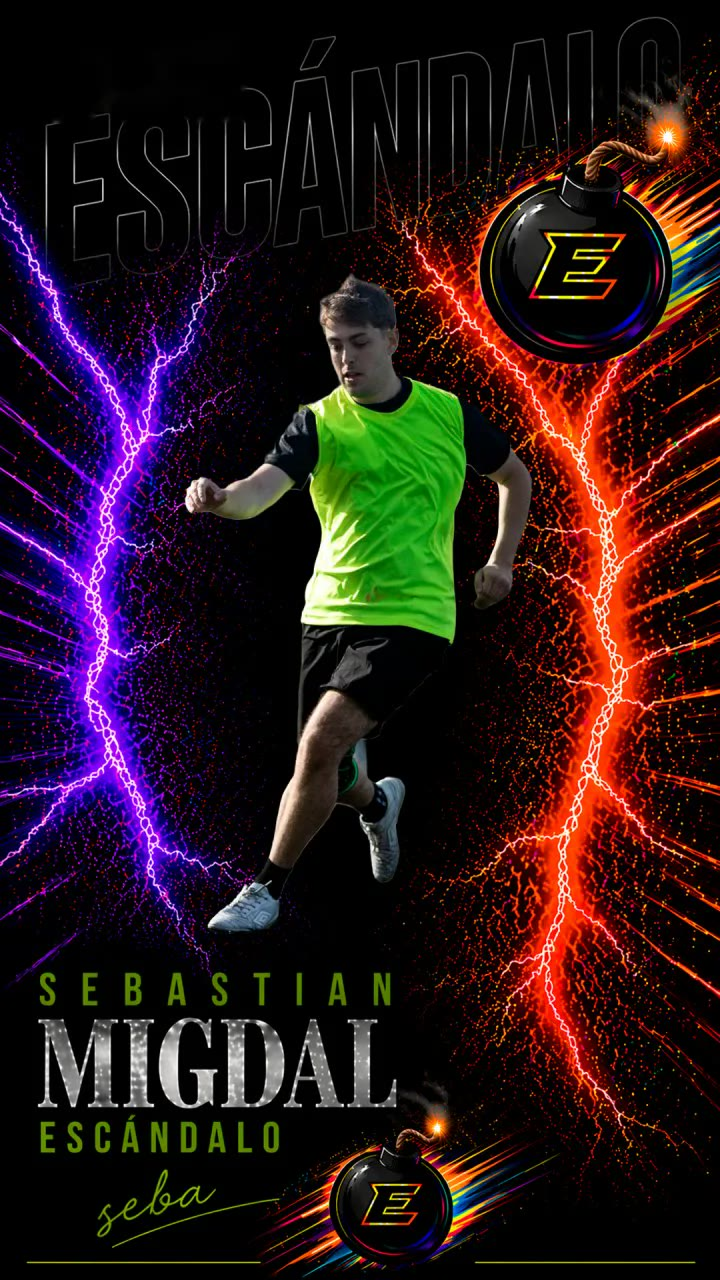
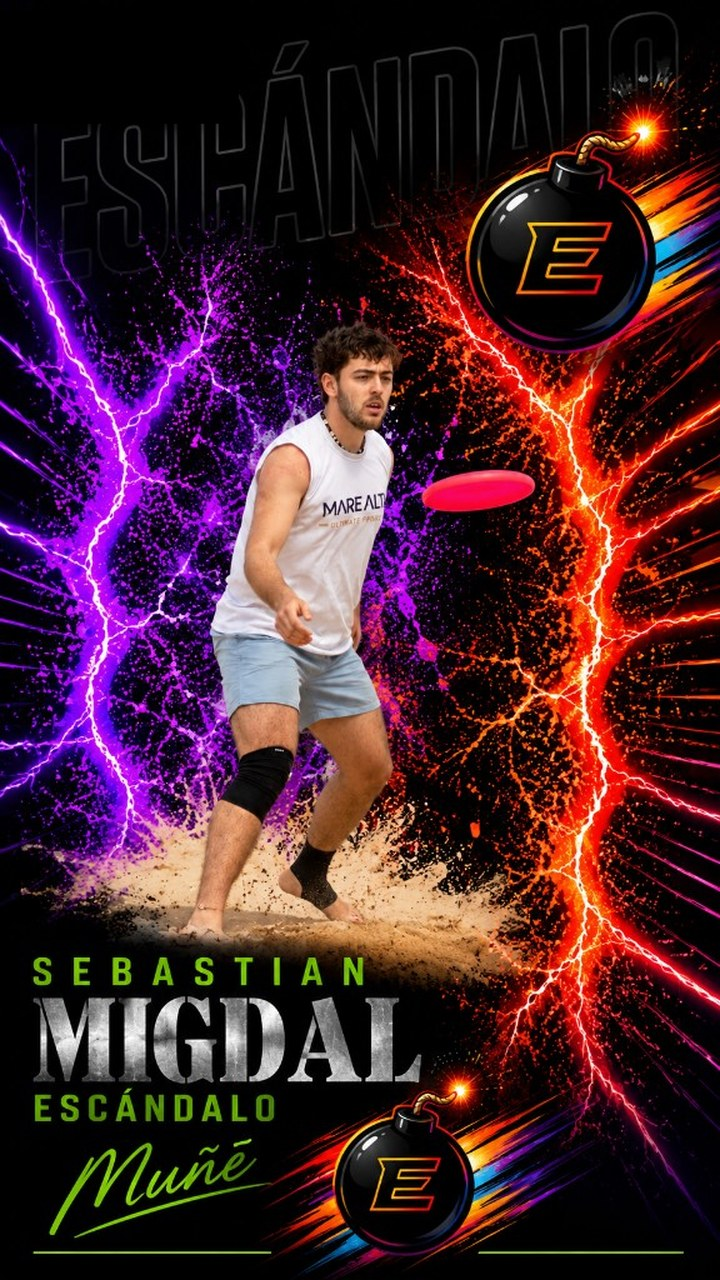
Actualizar la carta de Sebastian y filtrar la asistencia por mes.
La foto nueva no lleva el texto de bienvenida. El mapa de practicas abre en Todas y deja elegir un mes.

diff --git a/js/asistencia.js b/js/asistencia.js
@@ -76,26 +76,37 @@ const Asistencia = (() => {
       <p class="asi-nota">El porcentaje cuenta solo las prácticas que había desde que cada uno se sumó al equipo.${admin ? " Tocá un nombre para ver la evolución." : propio ? " Tocá tu nombre para ver tu evolución." : ""}</p>`;
   }
 
-  function mapa(datos, c, propio, modo, admin) {
+  function mesesDe(practicas) {
     const meses = [];
-    for (const p of datos.practicas) {
+    for (const p of practicas) {
       const m = +p.fecha.slice(5, 7) - 1, y = p.fecha.slice(0, 4), k = `${y}-${m}`;
-      if (!meses.length || meses[meses.length - 1].k !== k) meses.push({ k, nombre: `${MESES[m]} ${y.slice(2)}`, n: 0 });
-      meses[meses.length - 1].n++;
+      if (!meses.length || meses[meses.length - 1].k !== k) meses.push({ k, nombre: `${MESES[m]} ${y.slice(2)}`, practicas: [] });
+      meses[meses.length - 1].practicas.push(p);
     }
-    // Divs + ancho fijo en px: iOS aplasta las <table> aunque tengan min-width (body tiene overflow-x:hidden).
-    const CEL = 20, NOM = 104, ancho = NOM + datos.practicas.length * CEL;
+    return meses;
+  }
+
+  function mapa(datos, c, propio, modo, admin, mesKey) {
+    const meses = mesesDe(datos.practicas);
+    const todas = mesKey === "todas";
+    const mes = todas ? null : meses.find((m) => m.k === mesKey);
+    const practicas = todas || !mes ? datos.practicas : mes.practicas;
+    const grupos = todas || !mes ? meses : [mes];
+    const chips = `<button type="button" class="chip${todas || !mes ? " on" : ""}" data-mes="todas">Todas</button>`
+      + meses.map((m) => `<button type="button" class="chip${m.k === mes?.k ? " on" : ""}" data-mes="${m.k}">${m.nombre}</button>`).join("");
+    const CEL = 22, NOM = 104, ancho = NOM + practicas.length * CEL;
     const celda = (j, p) => {
       const v = j.marcas.get(p.id), cls = v === undefined ? "na" : v ? "fue" : "falto";
       return `<i class="${cls}" title="${esc(j.apodo)} · ${fecha(p.fecha)}: ${v === undefined ? "no contaba" : v ? "fue" : "faltó"}"></i>`;
     };
     const filas = ordenar(c.lista, modo).map((j) => {
       const click = puedeVer(j, propio, admin);
-      return `<div class="asi-fila${esYo(j, propio) ? " yo" : ""}${click ? " asi-ver" : ""}" ${click ? `data-ver="${j.id}"` : ""}><span class="nom">${esc(j.apodo)}</span><span class="celdas">${datos.practicas.map((p) => celda(j, p)).join("")}</span></div>`;
+      return `<div class="asi-fila${esYo(j, propio) ? " yo" : ""}${click ? " asi-ver" : ""}" ${click ? `data-ver="${j.id}"` : ""}><span class="nom">${esc(j.apodo)}</span><span class="celdas">${practicas.map((p) => celda(j, p)).join("")}</span></div>`;
     }).join("");
-    return `<div class="asi-mapa"><div class="asi-mapa-pista" style="width:${ancho}px">
-      <div class="asi-cab"><span class="nom"></span><span class="meses">${meses.map((m) => `<span class="mes" style="width:${m.n * CEL}px">${m.nombre}</span>`).join("")}</span></div>
-      <div class="asi-cab"><span class="nom"></span><span class="celdas">${datos.practicas.map((p) => `<span class="dia">${+p.fecha.slice(8)}</span>`).join("")}</span></div>
+    return `<div class="asi-meses-sel"><span>Mes</span>${chips}</div>
+    <div class="asi-mapa"><div class="asi-mapa-pista" style="width:${ancho}px">
+      <div class="asi-cab"><span class="nom"></span><span class="meses">${grupos.map((m) => `<span class="mes" style="width:${m.practicas.length * CEL}px">${m.nombre}</span>`).join("")}</span></div>
+      <div class="asi-cab"><span class="nom"></span><span class="celdas">${practicas.map((p) => `<span class="dia">${+p.fecha.slice(8)}</span>`).join("")}</span></div>
       ${filas}
     </div></div>
     <div class="asi-leyenda"><i class="fue"></i> Fue <i class="falto"></i> Faltó <i class="na"></i> No contaba (todavía no estaba)</div>`;
@@ -258,6 +269,7 @@ const Asistencia = (() => {
   // Dibuja el resumen completo dentro de un contenedor y conecta el botón de orden
   function montar(el, datos, { propio, admin } = {}) {
     let modo = "pct";
+    let mes = "todas";
     const c = calcular(datos);
     const abrir = (id) => {
       const j = c.lista.find((x) => String(x.id) === String(id));
@@ -266,9 +278,10 @@ const Asistencia = (() => {
     const dibujar = () => {
       el.innerHTML = `${tarjetas(datos, c, propio)}
         <h2 class="grupo-ult">Ranking de asistencia</h2>${tabla(c, propio, modo, admin)}
-        <h2 class="grupo-ult">Práctica por práctica</h2>${mapa(datos, c, propio, modo, admin)}`;
+        <h2 class="grupo-ult">Práctica por práctica</h2>${mapa(datos, c, propio, modo, admin, mes)}`;
     };
     el.onclick = (e) => {
+      const mesBtn = e.target.closest("[data-mes]"); if (mesBtn) { mes = mesBtn.dataset.mes; dibujar(); return; }
       const b = e.target.closest("[data-orden]"); if (b) { modo = b.dataset.orden; dibujar(); return; }
       const fila = e.target.closest("[data-ver]"); if (fila) abrir(fila.dataset.ver);
     };

diff --git a/css/style.css b/css/style.css
@@ -808,8 +808,10 @@ header.nav:has(> .cuenta:not(.cuenta-boot)) .cuenta-boot{display:none!important}
 .asi-fila.asi-ver:hover .nom{color:var(--b)}
 .asi-mapa .meses,.asi-mapa .celdas{display:flex;flex:none}
 .asi-mapa .mes{flex:none;box-sizing:border-box;font-size:.68rem;font-weight:700;letter-spacing:.06em;text-transform:uppercase;color:var(--b);text-align:left;padding:0 0 3px 2px;border-bottom:1px solid #ffffff1f;overflow:hidden;white-space:nowrap}
-.asi-mapa .dia{flex:0 0 20px;width:20px;box-sizing:border-box;font-size:.58rem;color:var(--mute);text-align:center;line-height:1.2;padding:0 0 2px}
-.asi-mapa .celdas i{flex:0 0 16px;width:16px;height:15px;margin:2px;border-radius:4px;display:block}
+.asi-meses-sel{display:flex;align-items:center;gap:8px;flex-wrap:wrap;margin:0 0 12px;color:var(--mute);font-size:.88rem}
+.asi-meses-sel .chip{padding:6px 12px;font-size:.82rem}
+.asi-mapa .dia{flex:0 0 22px;width:22px;box-sizing:border-box;font-size:.68rem;color:var(--mute);text-align:center;line-height:1.2;padding:2px 0 4px}
+.asi-mapa .celdas i{flex:0 0 16px;width:16px;height:15px;margin:3px;border-radius:4px;display:block}
 .asi-mapa .celdas i.fue,.asi-leyenda i.fue{background-color:#2ecc71}
 .asi-mapa .celdas i.falto,.asi-leyenda i.falto{background-color:#ff4d6d66}
 .asi-mapa .celdas i.na{background-color:#ffffff0d}
